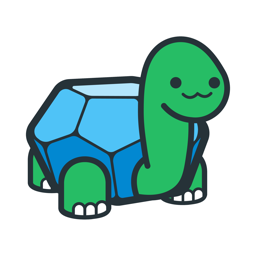
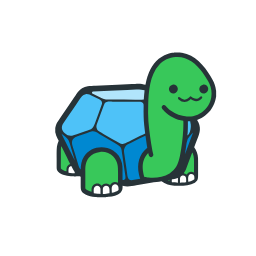
docs: give the turtle mark a transparent background
The logo was sourced from atuin.sh/icon.png, which is that site's favicon
and has an opaque white background baked in. On the docs site's dark
header that rendered as a white card behind the turtle, in both schemes.

`file` reports the image as RGBA either way, so the format proves
nothing -- the alpha channel has to be read. Every corner of the old
asset was (255,255,255,255).

Switches the logo to atuin.sh's turtle SVG, which is transparent and
vector, and regenerates the PNG favicon from that same SVG so the two
cannot drift. The favicon stays a PNG for universal support, and keeps
its filename, so the 404 page's favicon reference still resolves.

Adds test_turtle_mark_has_a_transparent_background, which decodes the
PNG with a small stdlib-only reader and asserts the corners are fully
transparent. Verified it fails against the previous asset.

Changed region(s): [[0.0938, 0.125, 0.9062, 0.875]]

diff --git a/docs/tests/test_branding.py b/docs/tests/test_branding.py
@@ -13,8 +13,10 @@ CSS is not normally testable. Two things here are worth the harness:
 from __future__ import annotations
 
 import re
+import struct
 import subprocess
 import sys
+import zlib
 from pathlib import Path
 
 import pytest
@@ -256,8 +258,77 @@ def test_old_stylesheet_is_gone():
 
 
 def test_logo_and_favicon_resolve(built_site: Path, index_html: str):
+    """The logo is the SVG, the favicon the PNG. Both must ship."""
+    assert "assets/atuin-turtle.svg" in index_html
     assert "assets/atuin-turtle.png" in index_html
+    assert (built_site / "assets" / "atuin-turtle.svg").is_file()
     assert (built_site / "assets" / "atuin-turtle.png").is_file()
+
+
+def _decode_png_rgba(data: bytes) -> tuple[int, int, list[bytes]]:
+    """Minimal 8-bit RGBA PNG decoder, stdlib only.
+
+    Exists so the transparency guard needs no image dependency. Handles the
+    five PNG filter types; refuses anything that is not 8-bit truecolour with
+    alpha rather than guessing.
+    """
+    pos, idat, width, height = 8, b"", 0, 0
+    while pos < len(data):
+        length = struct.unpack(">I", data[pos:pos + 4])[0]
+        chunk, payload = data[pos + 4:pos + 8], data[pos + 8:pos + 8 + length]
+        if chunk == b"IHDR":
+            width, height, depth, colour = struct.unpack(">IIBB", payload[:10])
+            assert (depth, colour) == (8, 6), f"expected 8-bit RGBA, got {depth}/{colour}"
+        elif chunk == b"IDAT":
+            idat += payload
+        pos += 12 + length
+
+    raw, bpp = zlib.decompress(idat), 4
+    stride = width * bpp
+    prev, rows, i = bytearray(stride), [], 0
+    for _ in range(height):
+        ftype, i = raw[i], i + 1
+        line, i = bytearray(raw[i:i + stride]), i + stride
+        for x in range(stride):
+            left = line[x - bpp] if x >= bpp else 0
+            up = prev[x]
+            upleft = prev[x - bpp] if x >= bpp else 0
+            if ftype == 1:
+                line[x] = (line[x] + left) & 0xFF
+            elif ftype == 2:
+                line[x] = (line[x] + up) & 0xFF
+            elif ftype == 3:
+                line[x] = (line[x] + (left + up) // 2) & 0xFF
+            elif ftype == 4:
+                estimate = left + up - upleft
+                da, db, dc = (abs(estimate - v) for v in (left, up, upleft))
+                nearest = left if (da <= db and da <= dc) else (up if db <= dc else upleft)
+                line[x] = (line[x] + nearest) & 0xFF
+        rows.append(bytes(line))
+        prev = line
+    return width, height, rows
+
+
+def test_turtle_mark_has_a_transparent_background():
+    """The mark sits on the dark header in both schemes.
+
+    atuin.sh's icon.png -- the obvious source -- has an opaque WHITE
+    background baked in, which renders as a white card behind the turtle.
+    `file` reports it as RGBA either way, so the format alone proves nothing;
+    the alpha channel has to be read.
+
+    Both assets are checked: the SVG must declare no background rect, and the
+    PNG (generated from that SVG) must have fully transparent corners.
+    """
+    svg = (STYLESHEETS.parent / "assets" / "atuin-turtle.svg").read_text()
+    assert "<svg" in svg
+    assert 'fill="#fff' not in svg.lower().replace(" ", "")
+
+    png = (STYLESHEETS.parent / "assets" / "atuin-turtle.png").read_bytes()
+    width, height, pixels = _decode_png_rgba(png)
+    corners = [(0, 0), (width - 1, 0), (0, height - 1), (width - 1, height - 1)]
+    alphas = [pixels[y][x * 4 + 3] for x, y in corners]
+    assert alphas == [0, 0, 0, 0], f"corner alphas {alphas}, expected all 0"
 
 
 @pytest.mark.parametrize(